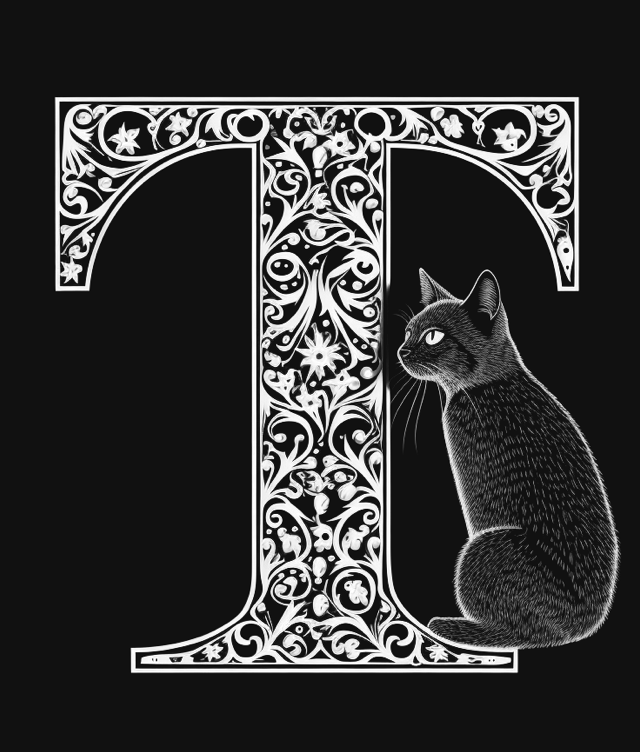
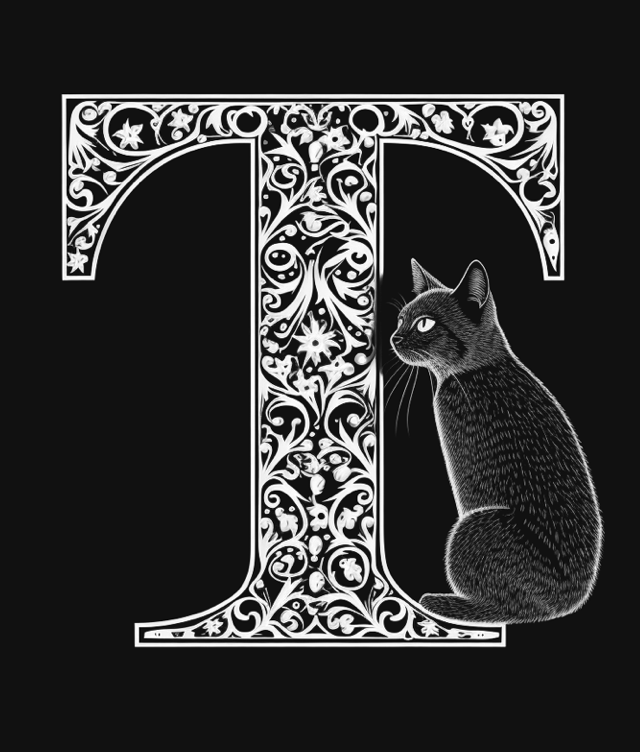
Adjustments to dropcats (T dark)

Changed region(s): [[0.0625, 0.1223, 0.9688, 0.9176]]

diff --git a/js/head-GENERATED.js b/js/head-GENERATED.js
@@ -3658,14 +3658,14 @@ GW.assetVersions = {
 	"/static/font/drop-cap/dropcat/dark/Q-8-small-2x.png": "1698350029",
 	"/static/font/drop-cap/dropcat/dark/Q-9-small-1x.png": "1698350029",
 	"/static/font/drop-cap/dropcat/dark/Q-9-small-2x.png": "1698350029",
-	"/static/font/drop-cap/dropcat/dark/T-1-small-1x.png": "1698178648",
-	"/static/font/drop-cap/dropcat/dark/T-1-small-2x.png": "1698178648",
-	"/static/font/drop-cap/dropcat/dark/T-2-small-1x.png": "1698178918",
-	"/static/font/drop-cap/dropcat/dark/T-2-small-2x.png": "1698178918",
-	"/static/font/drop-cap/dropcat/dark/T-3-small-1x.png": "1698178648",
-	"/static/font/drop-cap/dropcat/dark/T-3-small-2x.png": "1698178648",
-	"/static/font/drop-cap/dropcat/dark/T-4-small-1x.png": "1698178918",
-	"/static/font/drop-cap/dropcat/dark/T-4-small-2x.png": "1698178918",
+	"/static/font/drop-cap/dropcat/dark/T-1-small-1x.png": "1698350735",
+	"/static/font/drop-cap/dropcat/dark/T-1-small-2x.png": "1698350735",
+	"/static/font/drop-cap/dropcat/dark/T-2-small-1x.png": "1698350735",
+	"/static/font/drop-cap/dropcat/dark/T-2-small-2x.png": "1698350735",
+	"/static/font/drop-cap/dropcat/dark/T-3-small-1x.png": "1698350735",
+	"/static/font/drop-cap/dropcat/dark/T-3-small-2x.png": "1698350735",
+	"/static/font/drop-cap/dropcat/dark/T-4-small-1x.png": "1698350735",
+	"/static/font/drop-cap/dropcat/dark/T-4-small-2x.png": "1698350735",
 	"/static/font/drop-cap/dropcat/light/B-1-small-1x.png": "1698270093",
 	"/static/font/drop-cap/dropcat/light/B-1-small-2x.png": "1698270093",
 	"/static/font/drop-cap/dropcat/light/B-2-small-1x.png": "1698270093",

diff --git a/js/asset-versions-GENERATED.js b/js/asset-versions-GENERATED.js
@@ -92,14 +92,14 @@ GW.assetVersions = {
 	"/static/font/drop-cap/dropcat/dark/Q-8-small-2x.png": "1698350029",
 	"/static/font/drop-cap/dropcat/dark/Q-9-small-1x.png": "1698350029",
 	"/static/font/drop-cap/dropcat/dark/Q-9-small-2x.png": "1698350029",
-	"/static/font/drop-cap/dropcat/dark/T-1-small-1x.png": "1698178648",
-	"/static/font/drop-cap/dropcat/dark/T-1-small-2x.png": "1698178648",
-	"/static/font/drop-cap/dropcat/dark/T-2-small-1x.png": "1698178918",
-	"/static/font/drop-cap/dropcat/dark/T-2-small-2x.png": "1698178918",
-	"/static/font/drop-cap/dropcat/dark/T-3-small-1x.png": "1698178648",
-	"/static/font/drop-cap/dropcat/dark/T-3-small-2x.png": "1698178648",
-	"/static/font/drop-cap/dropcat/dark/T-4-small-1x.png": "1698178918",
-	"/static/font/drop-cap/dropcat/dark/T-4-small-2x.png": "1698178918",
+	"/static/font/drop-cap/dropcat/dark/T-1-small-1x.png": "1698350735",
+	"/static/font/drop-cap/dropcat/dark/T-1-small-2x.png": "1698350735",
+	"/static/font/drop-cap/dropcat/dark/T-2-small-1x.png": "1698350735",
+	"/static/font/drop-cap/dropcat/dark/T-2-small-2x.png": "1698350735",
+	"/static/font/drop-cap/dropcat/dark/T-3-small-1x.png": "1698350735",
+	"/static/font/drop-cap/dropcat/dark/T-3-small-2x.png": "1698350735",
+	"/static/font/drop-cap/dropcat/dark/T-4-small-1x.png": "1698350735",
+	"/static/font/drop-cap/dropcat/dark/T-4-small-2x.png": "1698350735",
 	"/static/font/drop-cap/dropcat/light/B-1-small-1x.png": "1698270093",
 	"/static/font/drop-cap/dropcat/light/B-1-small-2x.png": "1698270093",
 	"/static/font/drop-cap/dropcat/light/B-2-small-1x.png": "1698270093",

diff --git a/include/inlined-head.html b/include/inlined-head.html
@@ -912,5 +912,5 @@ a[data-link-icon-type*='svg'] .link-icon-hook::after {
 }
 </style>
 <link rel="stylesheet" href="/static/css/head.css?v=1698263740">
-<script src="/static/js/head.js?v=1698350108"></script>
+<script src="/static/js/head.js?v=1698350985"></script>
 <link rel="preload" href="/static/img/icon/icons.svg?v=1698021605" as="image">
